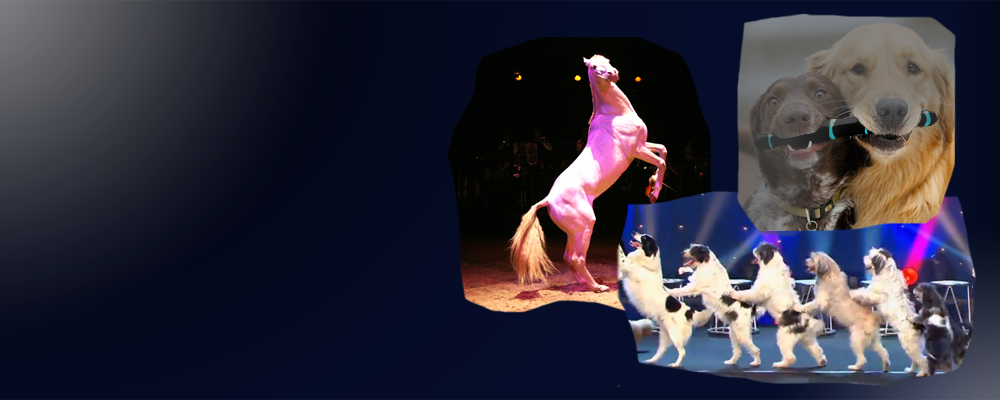
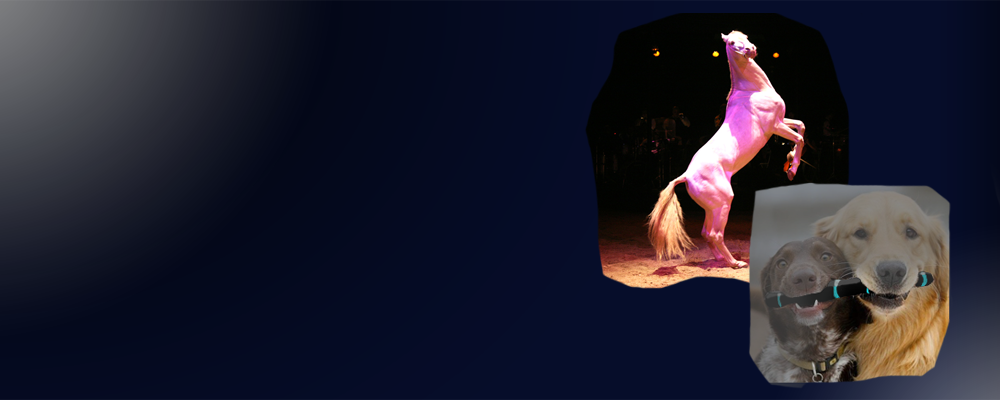
modifié des fonds, ajouté le footer, modif banniere

diff --git a/style.css b/style.css
@@ -3,8 +3,9 @@ body { max-width: 1000px; background-image: url("images/fondWC.png"); background
 
 .container {padding:0 !important;}
 
-.banniere {	max-width: 1000px;
+.banniere {	max-width: 100%;
 			width: auto;
+			
 			}
 
 .navbar {border-radius: 0 !important; margin-bottom: 0 !important}
@@ -13,8 +14,10 @@ section {max-width: 1000px; padding: 5px; color:#a5a0a0; font-size:1.2em}
 
  h1 {	font-size:2em;
 			color: white;}
+
+.list-group-item { background-color: rgba(0, 0, 15, 0.5) !important; border-radius:0 !important}
 	
-#wherewhen {background-image: url("images/fondsectionvide.png"); height:400px}
+#wherewhen {background-image: url("images/fondsectionvide.png"); }
 
 #home{background-image: url("images/home2.png"); height:400px}
 
@@ -26,4 +29,5 @@ section {max-width: 1000px; padding: 5px; color:#a5a0a0; font-size:1.2em}
 
 #augmentedr {background-image: url("images/augmr.png"); height:400px}
 
-list-group-item {rgba: (253, 253, 253, 0.5)}
+
+footer{background-color:rgba(230,230,230,0.8); font-size:0.8em}
